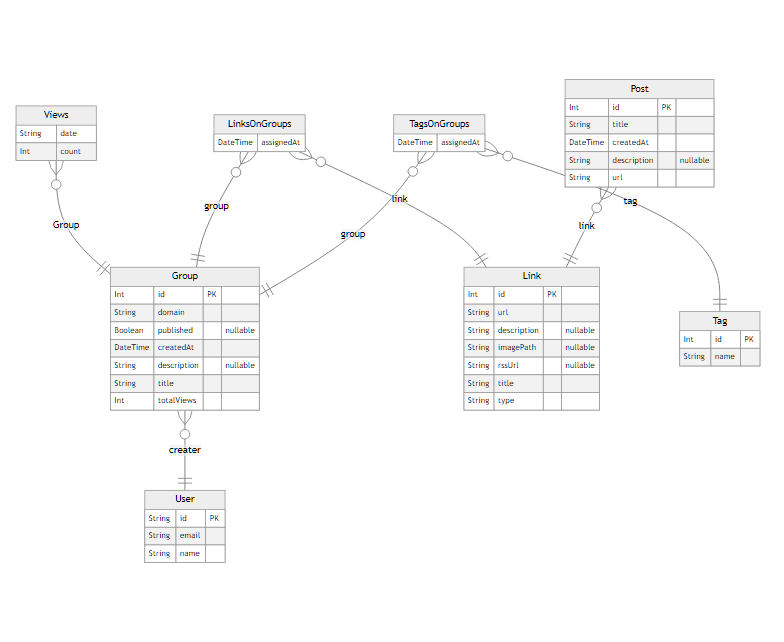
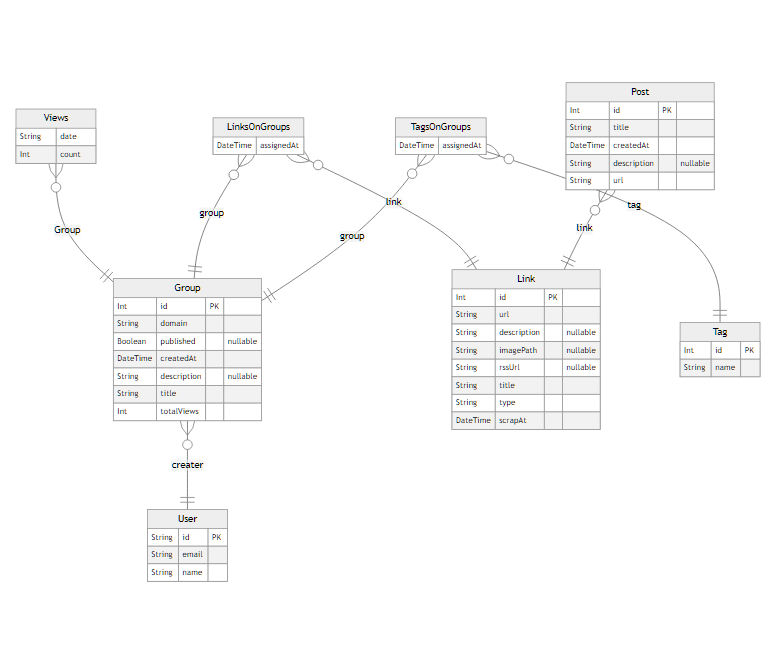
갱신해야됭

diff --git a/client/src/views/GroupDetail/components/GroupDetailTop.vue b/client/src/views/GroupDetail/components/GroupDetailTop.vue
@@ -5,21 +5,38 @@ import { useGroupStore } from '@/stores/group';
 import GroupInfo from '@/components/Info/GroupInfo.vue';
 import GroupDetailCounter from '@/components/Counter/GroupDetailCounter.vue';
 import GroupDetailTopLoader from '@/components/Loader/GroupDetailTopLoader.vue';
+import { getDateString } from '@/plugin/dayjs';
 
 const groupStore = useGroupStore();
 const { currentGroup } = storeToRefs(groupStore);
 const dailyViews = computed(() => currentGroup.value?.dailyViews || 0);
 const totalViews = computed(() => currentGroup.value?.totalViews || 0);
+const minScrapAt = computed(() => {
+  return getDateString(
+    currentGroup.value?.links
+      ?.map(({ link }) => ({
+        time: new Date(link.scrapAt as string).getTime() || 0,
+        scrapAt: new Date(link.scrapAt as string),
+      }))
+      .sort((x, y) => x.time - y.time)
+      .splice(0, 1)[0].scrapAt || new Date(),
+  );
+});
 
 const props = defineProps<{ loading: boolean }>();
 </script>
 
 <template>
   <template v-if="props.loading">
-    <group-detail-top-loader />
+    <GroupDetailTopLoader />
   </template>
   <template v-else>
     <GroupDetailCounter :daily-views="dailyViews" :total-views="totalViews" />
     <GroupInfo mode="HEADER" :group-data="currentGroup" />
+    <div class="q-pb-md justify-center">
+      <q-item class="q-pa-none" style="min-height: 0">
+        <q-item-section class="text-grey-5 text-center"> {{ minScrapAt }} </q-item-section>
+      </q-item>
+    </div>
   </template>
 </template>

diff --git a/client/src/components/Info/GroupInfo.vue b/client/src/components/Info/GroupInfo.vue
@@ -3,6 +3,8 @@ import { toRaw, computed } from 'vue';
 import { useQuasar } from 'quasar';
 import { Group } from '@/types/common';
 
+const $q = useQuasar();
+
 const props = defineProps<{ mode: 'HEADER' | 'LIST-ITEM'; groupData: Group }>();
 const isHeader = props.mode === 'HEADER';
 
@@ -11,7 +13,7 @@ const url = computed(() => `https://inglog.io/@${domain}`);
 
 const copyUrl = async () => {
   await navigator.clipboard.writeText(url.value);
-  useQuasar().notify({ type: 'positive', message: 'Copy Completed!' });
+  $q.notify({ type: 'positive', message: 'Copy Completed!' });
 };
 </script>
 
@@ -20,7 +22,9 @@ const copyUrl = async () => {
     <q-item-section>
       <q-list :class="{ 'text-center': isHeader }">
         <q-item v-if="isHeader" class="q-pa-none" style="min-height: 0">
-          <q-item-section class="text-weight-bold text-green-4" @click="copyUrl"> @{{ domain }} </q-item-section>
+          <q-item-section class="text-weight-bold text-green-4 cursor-pointer" @click="copyUrl">
+            @{{ domain }}
+          </q-item-section>
         </q-item>
         <q-item class="q-pa-none" style="min-height: 0">
           <q-item-section class="text-weight-bolder" style="font-size: 1rem">{{ title }}</q-item-section>

diff --git a/src/rss/rss.service.ts b/src/rss/rss.service.ts
@@ -4,6 +4,25 @@ import * as cheerio from 'cheerio';
 import { firstValueFrom } from 'rxjs';
 import { parse } from 'rss-to-json';
 
+type RssRes = {
+  title?: string;
+  description?: string;
+  link?: string;
+  image?: string;
+  category?: string;
+  items?: RssResItem[];
+  success?: boolean;
+  message?: Error;
+};
+
+type RssResItem = {
+  title?: string;
+  description?: string;
+  content?: string;
+  created?: Date;
+  link?: string;
+};
+
 const BLOG_EXPRESSION = {
   NAVER: /https:\/\/blog.naver.com\/([0-9a-zA-Z_-]*)(\/)?([0-9a-zA-Z]*)/gi,
   TISTORY: /https:\/\/([0-9a-zA-Z_-]*)\.tistory.com(\/)?([0-9a-zA-Z]*)/gi,
@@ -19,11 +38,14 @@ const BLOG_EXPRESSION = {
 export class RssService {
   constructor(private httpService: HttpService) {}
 
-  async findOne(url: string) {
+  async findOne(url: string, scrapAt: Date) {
     const rssUrl = await convertRssUrl(url, this.httpService);
-    let result;
+    let result: RssRes;
     try {
       result = await parse(rssUrl, {});
+      result.items = result.items.filter(
+        (item) => new Date(item.created) > scrapAt,
+      );
     } catch (e) {
       result = { success: false, message: e };
     }

diff --git a/src/post/post.controller.ts b/src/post/post.controller.ts
@@ -43,13 +43,11 @@ export class PostController {
   async findAllLast(@Query('linkIds', numbersPipe) linkIds: number[]) {
     const lastPostArr = await this.postService.lastPosts(linkIds);
     const groupLinks = await this.cacheService.getGroupLinks();
-    return lastPostArr.map(({ _max, linkId }) => {
-      return {
-        linkId,
-        createdAt: _max.createdAt,
-        title: groupLinks.find(({ link }) => link.id === linkId).link.title,
-      };
-    });
+    return lastPostArr.map(({ _max, linkId }) => ({
+      linkId,
+      createdAt: _max.createdAt,
+      title: groupLinks.find(({ link }) => link.id === linkId).link.title,
+    }));
   }
 
   @Get('count/date')

diff --git a/src/rss/rss.controller.ts b/src/rss/rss.controller.ts
@@ -1,4 +1,5 @@
 import { Controller, Get, Query } from '@nestjs/common';
+import { RssQueryDto } from './dto/rss-query.dto';
 import { RssService } from './rss.service';
 
 @Controller('rss')
@@ -6,7 +7,8 @@ export class RssController {
   constructor(private readonly rssService: RssService) {}
 
   @Get()
-  findOne(@Query('url') url: string) {
-    return this.rssService.findOne(url);
+  findOne(@Query() queryDto: RssQueryDto) {
+    const { url, scrapAt } = queryDto;
+    return this.rssService.findOne(url, scrapAt);
   }
 }

diff --git a/client/src/api/rssApi.ts b/client/src/api/rssApi.ts
@@ -6,7 +6,7 @@ import { pipe } from '../util';
 export default {
   async scrap(_link: Link): Promise<void> {
     const scrapUrl = _link.rssUrl || _link.url;
-    const res = await axiosClient.get('rss', { params: { url: scrapUrl } });
+    const res = await axiosClient.get('rss', { params: { url: scrapUrl, scrapAt: _link.scrapAt } });
     const _items = res.data.items || [];
     const postItems = _items.map(({ title, description, content, created, link }: RssItem) => {
       const _description = pipe(

diff --git a/src/main.ts b/src/main.ts
@@ -6,7 +6,8 @@ import { ValidationPipe } from '@nestjs/common';
 async function bootstrap() {
   const app = await NestFactory.create(AppModule);
 
-  app.useGlobalPipes(new ValidationPipe());
+  app.useGlobalPipes(new ValidationPipe({ transform: true }));
+  //app.useGlobalPipes(new ValidationPipe({ whitelist: true, transform: true }));
 
   const config = new DocumentBuilder()
     .setTitle('Median')

diff --git a/client/src/api/postApi.ts b/client/src/api/postApi.ts
@@ -10,6 +10,7 @@ const getIds = (links: LinkWrap[]) => links.map(({ link }) => link.id);
 
 export default {
   async createPosts(linkId: number, items: RssItem[]) {
+    if (items.length === 0) return;
     try {
       await axiosClient.post('post', { linkId, items });
     } catch (axiosError) {

diff --git a/src/rss/dto/rss-query.dto.ts b/src/rss/dto/rss-query.dto.ts
@@ -1,0 +1,10 @@
+import { Transform } from 'class-transformer';
+import { IsDate } from 'class-validator';
+
+export class RssQueryDto {
+  url: string;
+
+  @Transform(({ value }) => new Date(value))
+  @IsDate()
+  scrapAt: Date;
+}

diff --git a/client/src/types/common.ts b/client/src/types/common.ts
@@ -7,6 +7,7 @@ export type Link = {
   description?: string;
   type: string;
   imagePath?: string;
+  scrapAt?: Date | string;
 };
 export type LinkWrap = { link: Link };
 export type Group = {
